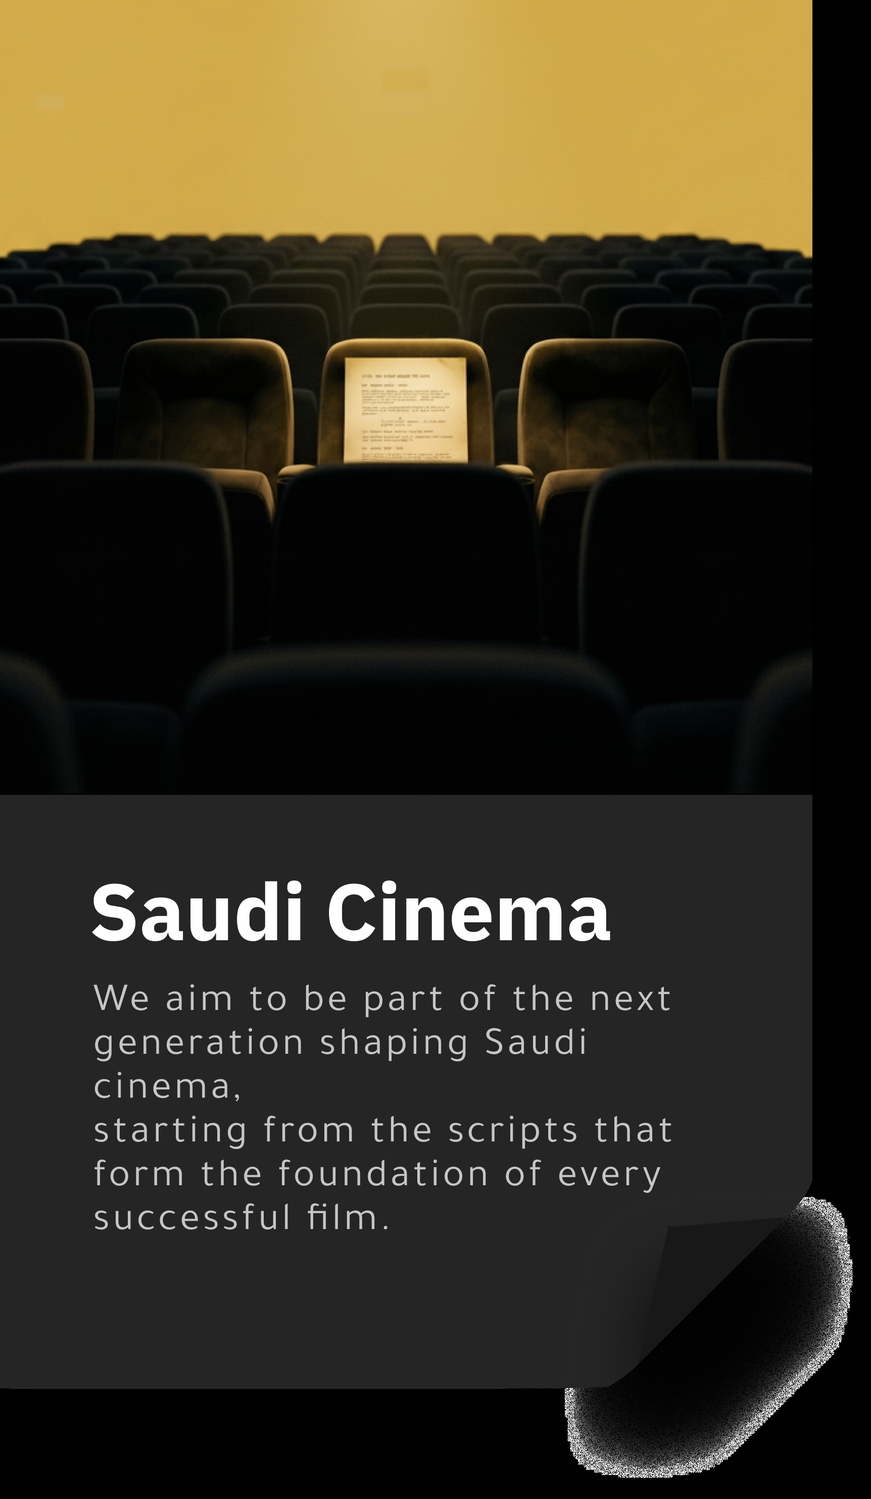
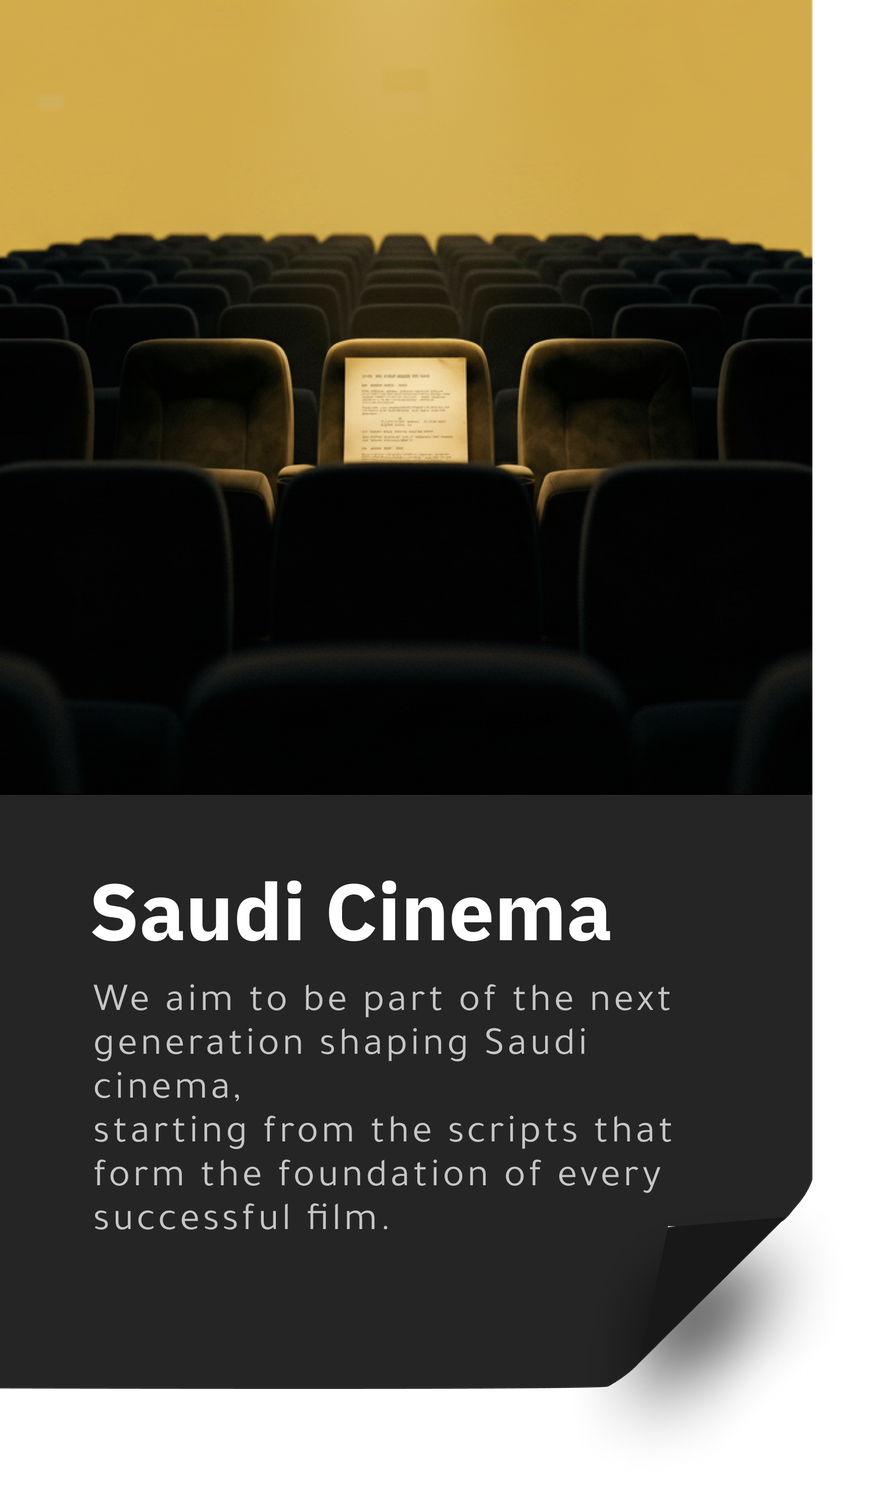
Fix card corner-fold artifacts, mirror readers.html blocks, reorder nav, tighten About Us hero
- card_*-en.png: re-exported preserving the alpha channel. The prior
  resize called .convert('RGB'), which flattened the corner-fold's
  soft translucent shadow to full opacity and exposed it as harsh
  grain instead of the intended smooth fade.
- readers.html: the "About SCENE ONE" story and the reader-profile
  cards were still pinned to the right side of the page in English
  (individual content was left-aligned, but the block position
  wasn't mirrored). Added margin overrides for .au-cards and
  .au-about__inner under html[dir="ltr"].
- Nav order changed site-wide (index/readers/about-coverage, bar +
  mobile overlay, both languages): Home, Scene One, Platform Guide,
  Who Reads Your Script?, Script Journey, Contact Us.
- readers.html hero title sat far from the nav with a large empty
  gap above it; reduced its margin-top (150px clamp -> 40px clamp
  desktop, 80px -> 24px mobile) so it sits close under the bar.

Changed region(s): [[0.0, 0.0, 1.0, 1.0]]

diff --git a/css/styles.css b/css/styles.css
@@ -1713,7 +1713,7 @@ button.adm-av:hover { transform: translateY(-1px); box-shadow: 0 3px 10px rgba(0
   direction: ltr; /* flex-end = physical right, matching the light in the bg photo (left) */
 }
 .au-hero__title {
-  margin-top: clamp(80px, 11vw, 150px); direction: rtl; text-align: right;
+  margin-top: clamp(16px, 3vw, 40px); direction: rtl; text-align: right;
   font-family: var(--font-head); font-weight: 700; color: #fff;
   font-size: clamp(36px, 5.6vw, 76px); line-height: 1.05;
 }
@@ -1796,7 +1796,7 @@ button.adm-av:hover { transform: translateY(-1px); box-shadow: 0 3px 10px rgba(0
 @media (max-width: 640px) {
   .au-hero { height: 640px; background-image: url('../assets/readers-hero-bg-mobile.jpg'); padding: 72px 0 0; }
   .au-hero__row { padding: 0 24px; }
-  .au-hero__title { margin-top: 80px; font-size: 40px; }
+  .au-hero__title { margin-top: 24px; font-size: 40px; }
   /* the light sits mid-photo on the mobile crop, so the wordmark stays
      pinned to the bottom (like desktop) instead of flowing in-place —
      static flow would land it right on top of the light fixture */
@@ -1879,10 +1879,12 @@ html[dir="ltr"] .toast { direction: ltr; text-align: left; }
    =========================================================== */
 html[dir="ltr"] .au-hero__row { justify-content: flex-start; padding-left: clamp(16px, 3vw, 40px); padding-right: clamp(24px, 6vw, 80px); }
 html[dir="ltr"] .au-hero__title { direction: ltr; text-align: left; }
+html[dir="ltr"] .au-about__inner { margin: 0 auto 0 0; }
 html[dir="ltr"] .au-about__label { direction: ltr; }
 html[dir="ltr"] .au-about__body { direction: ltr; }
 html[dir="ltr"] .au-about__body p { text-align: left; }
 html[dir="ltr"] .au-team__title { text-align: left; }
+html[dir="ltr"] .au-cards { margin: 0 auto 0 0; }
 html[dir="ltr"] .au-card__photo { margin: 0 auto 24px 0; }
 html[dir="ltr"] .au-card__role,
 html[dir="ltr"] .au-card__name,

diff --git a/about-coverage.html b/about-coverage.html
@@ -25,9 +25,9 @@
     <ul class="nav__links">
       <li><a href="/" data-i18n="navHome">الرئيسية</a></li>
       <li><a href="/#about" data-i18n="navAbout">Scene One</a></li>
+      <li><a href="/about-coverage" data-i18n="navGuide">دليل المنصة</a></li>
       <li><a href="/readers" data-i18n="navReaders">من يقرأ نصك؟</a></li>
       <li><a href="/#journey" data-i18n="navJourney">رحلة النص</a></li>
-      <li><a href="/about-coverage" data-i18n="navGuide">دليل المنصة</a></li>
       <li><a href="/#contact" data-i18n="navContact">تواصل معنا</a></li>
     </ul>
     <div class="nav__end">
@@ -73,9 +73,9 @@
       <div class="overlay__links">
         <a href="/" data-menu-close data-i18n="navHome">الرئيسية</a>
         <a href="/#about" data-menu-close data-i18n="navAbout">Scene One</a>
+        <a href="/about-coverage" data-menu-close data-i18n="navGuide">دليل المنصة</a>
         <a href="/readers" data-menu-close data-i18n="navReaders">من يقرأ نصك؟</a>
         <a href="/#journey" data-menu-close data-i18n="navJourney">رحلة النص</a>
-        <a href="/about-coverage" data-menu-close data-i18n="navGuide">دليل المنصة</a>
         <a href="/#contact" data-menu-close data-i18n="navContact">تواصل معنا</a>
       </div>
     </div>

diff --git a/readers.html b/readers.html
@@ -25,9 +25,9 @@
     <ul class="nav__links">
       <li><a href="/" data-i18n="navHome">الرئيسية</a></li>
       <li><a href="/#about" data-i18n="navAbout">Scene One</a></li>
+      <li><a href="/about-coverage" data-i18n="navGuide">دليل المنصة</a></li>
       <li><a href="/readers" data-i18n="navReaders">من يقرأ نصك؟</a></li>
       <li><a href="/#journey" data-i18n="navJourney">رحلة النص</a></li>
-      <li><a href="/about-coverage" data-i18n="navGuide">دليل المنصة</a></li>
       <li><a href="/#contact" data-i18n="navContact">تواصل معنا</a></li>
     </ul>
     <div class="nav__end">
@@ -73,9 +73,9 @@
       <div class="overlay__links">
         <a href="/" data-menu-close data-i18n="navHome">الرئيسية</a>
         <a href="/#about" data-menu-close data-i18n="navAbout">Scene One</a>
+        <a href="/about-coverage" data-menu-close data-i18n="navGuide">دليل المنصة</a>
         <a href="/readers" data-menu-close data-i18n="navReaders">من يقرأ نصك؟</a>
         <a href="/#journey" data-menu-close data-i18n="navJourney">رحلة النص</a>
-        <a href="/about-coverage" data-menu-close data-i18n="navGuide">دليل المنصة</a>
         <a href="/#contact" data-menu-close data-i18n="navContact">تواصل معنا</a>
       </div>
     </div>

diff --git a/index.html b/index.html
@@ -31,9 +31,9 @@
     <ul class="nav__links">
       <li><a href="/" data-i18n="navHome">الرئيسية</a></li>
       <li><a href="#about" data-i18n="navAbout">Scene One</a></li>
+      <li><a href="/about-coverage" data-i18n="navGuide">دليل المنصة</a></li>
       <li><a href="/readers" data-i18n="navReaders">من يقرأ نصك؟</a></li>
       <li><a href="#journey" data-i18n="navJourney">رحلة النص</a></li>
-      <li><a href="/about-coverage" data-i18n="navGuide">دليل المنصة</a></li>
       <li><a href="#contact" data-i18n="navContact">تواصل معنا</a></li>
     </ul>
     <div class="nav__end">
@@ -80,9 +80,9 @@
       <div class="overlay__links">
         <a href="/" data-menu-close data-i18n="navHome">الرئيسية</a>
         <a href="#about" data-menu-close data-i18n="navAbout">Scene One</a>
+        <a href="/about-coverage" data-menu-close data-i18n="navGuide">دليل المنصة</a>
         <a href="/readers" data-menu-close data-i18n="navReaders">من يقرأ نصك؟</a>
         <a href="#journey" data-menu-close data-i18n="navJourney">رحلة النص</a>
-        <a href="/about-coverage" data-menu-close data-i18n="navGuide">دليل المنصة</a>
         <a href="#contact" data-menu-close data-i18n="navContact">تواصل معنا</a>
       </div>
     </div>
